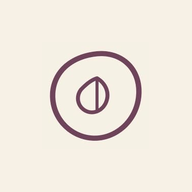
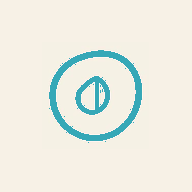
Updates

Changed region(s): [[0.25, 0.25, 0.75, 0.75], [0.375, 0.375, 0.5938, 0.625]]

diff --git a/sw.js b/sw.js
@@ -1,1 +1,1 @@
-if(!self.define){let e,n={};const i=(i,c)=>(i=new URL(i+".js",c).href,n[i]||new Promise(n=>{if("document"in self){const e=document.createElement("script");e.src=i,e.onload=n,document.head.appendChild(e)}else e=i,importScripts(i),n()}).then(()=>{let e=n[i];if(!e)throw new Error(`Module ${i} didn’t register its module`);return e}));self.define=(c,o)=>{const s=e||("document"in self?document.currentScript.src:"")||location.href;if(n[s])return;let r={};const b=e=>i(e,s),a={module:{uri:s},exports:r,require:b};n[s]=Promise.all(c.map(e=>a[e]||b(e))).then(e=>(o(...e),r))}}define(["./workbox-dcde9eb3"],function(e){"use strict";self.skipWaiting(),e.clientsClaim(),e.precacheAndRoute([{url:"registerSW.js",revision:"1872c500de691dce40960bb85481de07"},{url:"index.html",revision:"a96d90ed7f7553b1012ecd36b09962a2"},{url:"icons/icon-512.png",revision:"cd9204b03ca71c2abee9bcc5a6125613"},{url:"icons/icon-512-maskable.png",revision:"f616e0793c70d142b5b8bbcba96dbbb4"},{url:"icons/icon-192.png",revision:"481626f04133a089a5dc9c66b0e09b1f"},{url:"icons/icon-192-maskable.png",revision:"9f3eb5c336c3cbf9c49990fb58a92652"},{url:"icons/apple-touch-icon.png",revision:"befa443fee82eba44518577d594533e8"},{url:"assets/logo-almenta-DZaavVSx.png",revision:null},{url:"assets/index-Ciynr8lc.js",revision:null},{url:"icons/apple-touch-icon.png",revision:"befa443fee82eba44518577d594533e8"},{url:"icons/icon-192-maskable.png",revision:"9f3eb5c336c3cbf9c49990fb58a92652"},{url:"icons/icon-192.png",revision:"481626f04133a089a5dc9c66b0e09b1f"},{url:"icons/icon-512-maskable.png",revision:"f616e0793c70d142b5b8bbcba96dbbb4"},{url:"icons/icon-512.png",revision:"cd9204b03ca71c2abee9bcc5a6125613"},{url:"manifest.webmanifest",revision:"1cb6a5607c43b22b4b08ccec9f3601dc"}],{}),e.cleanupOutdatedCaches(),e.registerRoute(new e.NavigationRoute(e.createHandlerBoundToURL("index.html"))),e.registerRoute(/^https:\/\/fonts\.(googleapis|gstatic)\.com\/.*/i,new e.CacheFirst({cacheName:"google-fonts-cache",plugins:[new e.ExpirationPlugin({maxEntries:10,maxAgeSeconds:31536e3})]}),"GET")});
+if(!self.define){let e,n={};const i=(i,c)=>(i=new URL(i+".js",c).href,n[i]||new Promise(n=>{if("document"in self){const e=document.createElement("script");e.src=i,e.onload=n,document.head.appendChild(e)}else e=i,importScripts(i),n()}).then(()=>{let e=n[i];if(!e)throw new Error(`Module ${i} didn’t register its module`);return e}));self.define=(c,o)=>{const s=e||("document"in self?document.currentScript.src:"")||location.href;if(n[s])return;let d={};const r=e=>i(e,s),b={module:{uri:s},exports:d,require:r};n[s]=Promise.all(c.map(e=>b[e]||r(e))).then(e=>(o(...e),d))}}define(["./workbox-dcde9eb3"],function(e){"use strict";self.skipWaiting(),e.clientsClaim(),e.precacheAndRoute([{url:"registerSW.js",revision:"1872c500de691dce40960bb85481de07"},{url:"index.html",revision:"a96d90ed7f7553b1012ecd36b09962a2"},{url:"icons/icon-512.png",revision:"0c4777b5e8d7550749b1cec9bb098822"},{url:"icons/icon-512-maskable.png",revision:"a082f0bca9eddc1b17d609b6d5e196b7"},{url:"icons/icon-192.png",revision:"e1b66dc59fa9044250838cd7bc7cba46"},{url:"icons/icon-192-maskable.png",revision:"d9fded5e6c52d5c1407ba94965bb0524"},{url:"icons/apple-touch-icon.png",revision:"6dbad8ce458db177301dd8242edf54c0"},{url:"assets/logo-almenta-DZaavVSx.png",revision:null},{url:"assets/index-Ciynr8lc.js",revision:null},{url:"icons/apple-touch-icon.png",revision:"6dbad8ce458db177301dd8242edf54c0"},{url:"icons/icon-192-maskable.png",revision:"d9fded5e6c52d5c1407ba94965bb0524"},{url:"icons/icon-192.png",revision:"e1b66dc59fa9044250838cd7bc7cba46"},{url:"icons/icon-512-maskable.png",revision:"a082f0bca9eddc1b17d609b6d5e196b7"},{url:"icons/icon-512.png",revision:"0c4777b5e8d7550749b1cec9bb098822"},{url:"manifest.webmanifest",revision:"1cb6a5607c43b22b4b08ccec9f3601dc"}],{}),e.cleanupOutdatedCaches(),e.registerRoute(new e.NavigationRoute(e.createHandlerBoundToURL("index.html"))),e.registerRoute(/^https:\/\/fonts\.(googleapis|gstatic)\.com\/.*/i,new e.CacheFirst({cacheName:"google-fonts-cache",plugins:[new e.ExpirationPlugin({maxEntries:10,maxAgeSeconds:31536e3})]}),"GET")});
